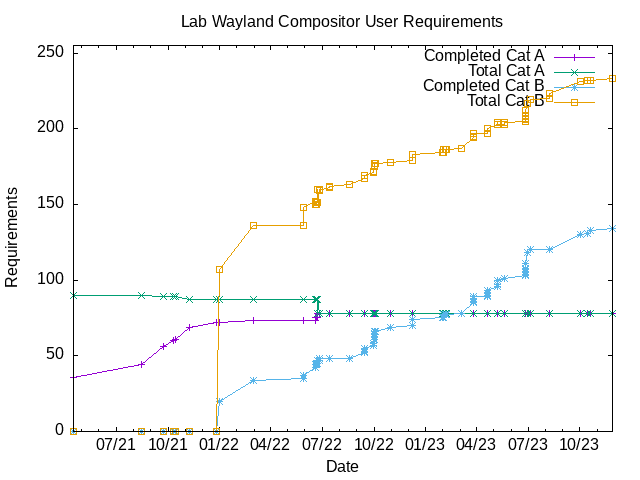
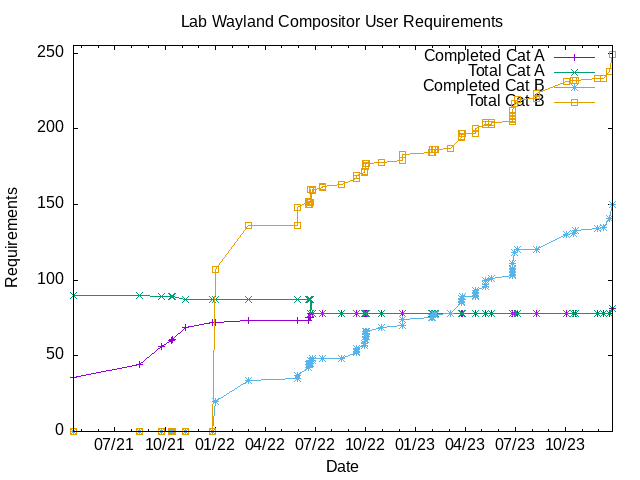
Update README.md following 0.7.0 release

diff --git a/all-cat-A-and-B-items.md b/all-cat-A-and-B-items.md
@@ -24,7 +24,7 @@ This file has been auto-generated based on README.md. Do not edit it manually
 |  A  | complete | 2.3.2     | placement                       | `center`                                                | No config - just do it
 |  A  | complete | 2.4.1     | theme                           | `name`                                                  |
 |  A  | complete | 2.4.6     | theme                           | `<font place="ActiveWindow">`                           |
-|  A  | complete | 2.8.3     | keyboard                        | `keybind`                                               |
+|  A  | complete | 2.8.3     | keyboard                        | `keybind`                                               | See section 3.1
 |  A  | complete | 2.9.2     | mouse                           | `doubleClickTime`                                       |
 |  A  | complete | 2.9.3     | mouse                           | `context`                                               |
 |  A  | complete | 3.1.1     | keyboard keybind                | `key`                                                   |
@@ -75,6 +75,9 @@ This file has been auto-generated based on README.md. Do not edit it manually
 |  A  | complete | 6.9.2     | menu textures                   | `menu.items.active.bg`                                  |
 |  A  | complete | 6.10.1    | osd textures                    | `osd.bg`                                                | we only set the color
 |  A  | complete | 6.11.1    | osd colors                      | `osd.label.text.color`                                  |
+|  A  | complete | 6.15.1.1  | theme button base               | `max.xbm`                                               |
+|  A  | complete | 6.15.1.3  | theme button base               | `iconify.xbm`                                           |
+|  A  | complete | 6.15.1.4  | theme button base               | `close.xbm`                                             |
 |  A  | complete | 7.1.1     | menu syntax general             | `id`                                                    |
 |  A  | complete | 7.2.1     | menu syntax item                | `label`                                                 |
 |  A  | complete | 7.2.3     | menu syntax item                | `action`                                                |
@@ -103,6 +106,8 @@ This file has been auto-generated based on README.md. Do not edit it manually
 |  B  | complete | 1.2.22    | wayland-protocol                | [ext-session-lock-v1]                                   | This is more secure [^1]
 |  B  | complete | 1.2.23    | wayland-protocol                | xdg-activation-v1                                       |
 |  B  | complete | 1.2.24    | wayland-protocol                | single-pixel-buffer-v1                                  |
+|  B  | complete | 1.2.25    | wayland-protocol                | cursor-shape-v1                                         |
+|  B  | complete | 1.2.26    | wayland-protocol                | fractional-scale-v1                                     |
 |  B  | complete | 1.3.1     | wlr-protocol                    | wlr-data-control-unstable-v1                            |
 |  B  | complete | 1.3.2     | wlr-protocol                    | wlr-export-dmabuf-unstable-v1                           |
 |  B  | complete | 1.3.4     | wlr-protocol                    | wlr-gamma-control-unstable-v1                           |
@@ -140,7 +145,9 @@ This file has been auto-generated based on README.md. Do not edit it manually
 |  B  | complete | 2.7.3.2   | window rule property            | `windowRule.skipTaskbar`                                | EXTRA
 |  B  | complete | 2.7.3.3   | window rule property            | `windowRule.skipWindowSwitcher`                         | EXTRA
 |  B  | complete | 2.7.3.4   | window rule property            | `windowRule.ignoreFocusRequest`                         | EXTRA
-|  B  | complete | 2.8.3.1   | keyboard                        | `keybind.layoutDependent`                               | EXTRA
+|  B  | complete | 2.7.3.5   | window rule property            | `windowRule.fixedPosition`                         | EXTRA
+|  B  | complete | 2.8.4     | keyboard                        | `numlock`                                               | EXTRA
+|  B  | complete | 2.8.5     | keyboard                        | `layoutScope`                                           | EXTRA
 |  B  | complete | 2.9.4     | mouse                           | `scrollFactor`                                          | EXTRA
 |  B  | complete | 2.10.1    | margins                         | `<margin>`                                              |
 |  B  |          | 2.11.1    | menu                            | `hideDelay`                                             |
@@ -158,6 +165,7 @@ This file has been auto-generated based on README.md. Do not edit it manually
 |  B  | complete | 2.13.6    | window switcher                 | `fields.field.width`                                    | EXTRA
 |  B  | complete | 3.6.1     | libinput                        |                                                         | EXTRA
 |  B  | complete | 3.1.6     | keyboard binding                | `default`                                               | EXTRA
+|  B  | complete | 3.1.7     | keyboard binding                | `lyoutDependent`                                        | EXTRA
 |  B  | complete | 3.2.4     | mouse binding                   | `default`                                               | EXTRA
 |  B  | complete | 3.3.1     | mouse context                   | `Frame`                                                 |
 |  B  | complete | 3.3.2     | mouse context                   | `Client`                                                |
@@ -197,9 +205,11 @@ This file has been auto-generated based on README.md. Do not edit it manually
 |  B  | complete | 4.18      | global action                   | `Kill`                                                  | EXTRA Send SIGTERM
 |  B  | complete | 4.19      | global action                   | `FocusOutput`                                           | EXTRA
 |  B  | complete | 4.20      | global action                   | `ToggleKeybinds`                                        | EXTRA
+|  B  | complete | 4.21      | global action                   | `VirtualOutputAdd`                                      | EXTRA
+|  B  | complete | 4.22      | global action                   | `VirtualOutputRemove`                                   | EXTRA
 |  B  | complete | 5.3       | window action                   | `Lower`                                                 |
 |  B  |          | 5.4       | window action                   | `RaiseLower`                                            |
-|  B  |          | 5.5       | window action                   | `UnFocus`                                               |
+|  B  | complete | 5.5       | window action                   | `Unfocus`                                               |
 |  B  |          | 5.6       | window action                   | `FocusToBottom`                                         |
 |  B  |          | 5.9       | window action                   | `ToggleShade`                                           |
 |  B  |          | 5.10      | window action                   | `Shade`                                                 |
@@ -215,14 +225,15 @@ This file has been auto-generated based on README.md. Do not edit it manually
 |  B  |          | 5.18      | window action                   | `Decorate`                                              |
 |  B  |          | 5.19      | window action                   | `Undecorate`                                            |
 |  B  | complete | 5.20      | window action                   | `SendToDesktop`                                         |
-|  B  | complete | 5.20.1    | window action                   | `SendToDesktop.to`                                      |
+|  B  | complete | 5.20.1    | window action                   | `SendToDesktop.to`                                      | EXTRA: support value 'current'
 |  B  | complete | 5.20.2    | window action                   | `SendToDesktop.follow`                                  |
 |  B  | complete | 5.20.3    | window action                   | `SendToDesktop.wrap`                                    |
 |  B  | complete | 5.23.1    | window action                   | `MoveTo`                                                | DEVIATION: `MoveResizeTo` in Openbox
-|  B  |          | 5.23.2    | window action                   | `ResizeTo`                                              |
+|  B  | complete | 5.23.2    | window action                   | `ResizeTo`                                              |
 |  B  | complete | 5.24      | window action                   | `MoveRelative`                                          |
 |  B  | complete | 5.25      | window action                   | `ResizeRelative`                                        |
-|  B  | complete | 5.26      | window action                   | `MoveToEdge`                                            | DEVIATION: Have `snapWindows` option
+|  B  | complete | 5.26      | window action                   | `MoveToEdge`                                            |
+|  B  | complete | 5.26.1    | window action                   | `MoveToEdge.snapWindows`                                | EXTRA
 |  B  | complete | 5.27      | window action                   | `GrowToEdge`                                            |
 |  B  |          | 5.28      | window action                   | `GrowToFill`                                            |
 |  B  | complete | 5.29      | window action                   | `ShrinkToEdge`                                          |
@@ -238,6 +249,7 @@ This file has been auto-generated based on README.md. Do not edit it manually
 |  B  | complete | 6.1.5     | geometry                        | `menu.separator.padding.height`                         |
 |  B  |          | 6.1.10    | geometry                        | `padding.width`                                         |
 |  B  | complete | 6.1.11    | geometry                        | `padding.height`                                        |
+|  B  | complete | 6.1.11.1  | geometry                        | `titlebar.height`                                       | EXTRA
 |  B  | complete | 6.1.12    | geometry                        | `menu.overlap.x`                                        |
 |  B  | complete | 6.1.13    | geometry                        | `menu.overlap.y`                                        |
 |  B  |          | 6.1.14    | geometry                        | `menu.overlap`                                          |
@@ -245,11 +257,13 @@ This file has been auto-generated based on README.md. Do not edit it manually
 |  B  | complete | 6.1.16    | geometry                        | `menu.width.max`                                        | EXTRA
 |  B  | complete | 6.1.17    | geometry                        | `menu.items.padding.x`                                  | EXTRA
 |  B  | complete | 6.1.18    | geometry                        | `menu.items.padding.y`                                  | EXTRA
-|  B  | complete | 6.1.19    | geometry                        | `osd.window-switcher.width`                             | EXTRA
-|  B  | complete | 6.1.20    | geometry                        | `osd.window-switcher.item.padding.x`                    | EXTRA
-|  B  | complete | 6.1.21    | geometry                        | `osd.window-switcher.item.padding.y`                    | EXTRA
-|  B  | complete | 6.1.21    | geometry                        | `osd.window-switcher.padding`                           | EXTRA
-|  B  | complete | 6.1.21    | geometry                        | `osd.window-switcher.item.active.border.width`          | EXTRA
+|  B  | complete | 6.1.19.1  | geometry                        | `osd.window-switcher.width`                             | EXTRA
+|  B  | complete | 6.1.19.2  | geometry                        | `osd.window-switcher.item.padding.x`                    | EXTRA
+|  B  | complete | 6.1.19.3  | geometry                        | `osd.window-switcher.item.padding.y`                    | EXTRA
+|  B  | complete | 6.1.19.4  | geometry                        | `osd.window-switcher.padding`                           | EXTRA
+|  B  | complete | 6.1.19.5  | geometry                        | `osd.window-switcher.item.active.border.width`          | EXTRA
+|  B  | complete | 6.1.20.1  | geometry                        | `osd.workspace-switcher.boxes.width`                    | EXTRA
+|  B  | complete | 6.1.20.2  | geometry                        | `osd.workspace-switcher.boxes.height`                   | EXTRA
 |  B  |          | 6.2.2     | border colors                   | `window.active.title.separator.color`                   |
 |  B  |          | 6.2.4     | border colors                   | `window.inactive.title.separator.color`                 |
 |  B  |          | 6.2.6     | border colors                   | `window.active.client.color`                            |
@@ -300,15 +314,20 @@ This file has been auto-generated based on README.md. Do not edit it manually
 |  B  |          | 6.11.3    | osd colors                      | `osd.unhilight.bg.color`                                | for desktop osd only
 |  B  | complete | 6.12.1    | text justification              | `window.label.text.justify`                             |
 |  B  |          | 6.12.2    | text justification              | `menu.title.text.justify`                               |
-|  B  | complete | 8.3.1     | extra                           | Read menu.xbm if it exists                              | EXTRA
+|  B  | complete | 6.15.1.2  | theme button base               | `max_toggled.xbm`                                       |
+|  B  |          | 6.15.1.9  | theme button base               | `bullet.xbm`                                            |
+|  B  | complete | 6.15.1.1  | theme button base               | `menu.xbm`                                              | EXTRA
+|  B  | complete | 6.15.2.1  | theme button variant            | `_hover`                                                |
+|  B  |          | 6.15.2.2  | theme button variant            | `_pressed`                                              |
+|  B  |          | 6.15.2.3  | theme button variant            | `_disabled`                                             |
+|  B+ | complete | 6.15.3    | theme button png                | Support png buttons                                     | EXTRA
+|  B+ | complete | 6.15.4    | theme button svg                | Support svg buttons                                     | EXTRA
 |  B  | complete | 7.0.1     | menu general                    | Parse menu.xml in accordance with Openbox 3.6 spec      |
 |  B  | complete | 7.0.2     | menu general                    | Handle pointer input                                    |
 |  B+ | complete | 7.0.3     | menu general                    | Handle keyboard input                                   |
 |  B  |          | 7.1.2     | menu syntax general             | `label`                                                 |
 |  B+ |          | 7.1.4     | menu syntax general             | `execute`                                               | aka pipe-menus
 |  B  |          | 7.3.2     | menu syntax separator           | `<separator label="" />`                                | For separator with text
-|  B+ | complete | 8.1.2     | extra                           | Support png buttons                                     |
-|  B+ | complete | 8.1.3     | extra                           | Support svg buttons                                     |
 |  B  | complete | 8.2.1     | extra                           | `<snapping>`                                            |
 |  B  | complete | 8.2.2     | extra                           | `<snapping><range>`                                     |
 |  B  | complete | 8.2.3     | extra                           | `<snapping><topMaximize>`                               |

diff --git a/README.md b/README.md
@@ -49,6 +49,8 @@
     - [6.11 On-Screen-Display Colors](#611-theme---on-screen-display-colors)
     - [6.12 Text Justification](#612-theme---text-justification)
     - [6.13 Text Shadows](#613-theme---text-shadows)
+    - [6.14 Dialogs](#614-theme---dialogs)
+    - [6.15 Button Images](#615-theme---buttom-images)
   - [7 Menus](#7-menus)
   - [8 Extra](#8-extra)
 - [Appendix A - Terminology](#appendix-a---terminology)
@@ -174,6 +176,8 @@ Requirements section below.
 |  B  | complete | 1.2.22    | wayland-protocol                | [ext-session-lock-v1]                                   | This is more secure [^1]
 |  B  | complete | 1.2.23    | wayland-protocol                | xdg-activation-v1                                       |
 |  B  | complete | 1.2.24    | wayland-protocol                | single-pixel-buffer-v1                                  |
+|  B  | complete | 1.2.25    | wayland-protocol                | cursor-shape-v1                                         |
+|  B  | complete | 1.2.26    | wayland-protocol                | fractional-scale-v1                                     |
 
 [presentation-time]: https://gitlab.freedesktop.org/wayland/wayland-protocols/-/tree/main/stable/presentation-time
 [viewporter]: https://gitlab.freedesktop.org/wayland/wayland-protocols/-/tree/main/stable/viewporter
@@ -383,6 +387,9 @@ The `<core>` section is additional to openbox 3.6 spec.
 
 ## 2.14 Configuration - Window Switcher
 
+The window switcher can be cycled in reverse using shift-tab or up/left
+arrow whilst holding alt.
+
 | Cat | Status   | Reference | Category                        | Description                                             | Comment
 | --- | -------- | --------- | ------------------------------- | ------------------------------------------------------- | -------
 |  B  | complete | 2.13.1    | window switcher                 | `show`                                                  | EXTRA
@@ -504,6 +511,8 @@ The `<core>` section is additional to openbox 3.6 spec.
 |  B  | complete | 4.18      | global action                   | `Kill`                                                  | EXTRA Send SIGTERM
 |  B  | complete | 4.19      | global action                   | `FocusOutput`                                           | EXTRA
 |  B  | complete | 4.20      | global action                   | `ToggleKeybinds`                                        | EXTRA
+|  B  | complete | 4.21      | global action                   | `VirtualOutputAdd`                                      | EXTRA
+|  B  | complete | 4.22      | global action                   | `VirtualOutputRemove`                                   | EXTRA
 
 ## 5 Window Actions
 
@@ -538,7 +547,7 @@ The `<core>` section is additional to openbox 3.6 spec.
 |  A  | complete | 5.21      | window action                   | `Move`                                                  |
 |  A  | complete | 5.22      | window action                   | `Resize`                                                |
 |  B  | complete | 5.23.1    | window action                   | `MoveTo`                                                | DEVIATION: `MoveResizeTo` in Openbox
-|  B  |          | 5.23.2    | window action                   | `ResizeTo`                                              |
+|  B  | complete | 5.23.2    | window action                   | `ResizeTo`                                              |
 |  B  | complete | 5.24      | window action                   | `MoveRelative`                                          |
 |  B  | complete | 5.25      | window action                   | `ResizeRelative`                                        |
 |  B  | complete | 5.26      | window action                   | `MoveToEdge`                                            |
@@ -584,6 +593,8 @@ The `<core>` section is additional to openbox 3.6 spec.
 |  B  | complete | 6.1.19.3  | geometry                        | `osd.window-switcher.item.padding.y`                    | EXTRA
 |  B  | complete | 6.1.19.4  | geometry                        | `osd.window-switcher.padding`                           | EXTRA
 |  B  | complete | 6.1.19.5  | geometry                        | `osd.window-switcher.item.active.border.width`          | EXTRA
+|  B  | complete | 6.1.20.1  | geometry                        | `osd.workspace-switcher.boxes.width`                    | EXTRA
+|  B  | complete | 6.1.20.2  | geometry                        | `osd.workspace-switcher.boxes.height`                   | EXTRA
 
 ## 6.2 Theme - Border Colors
 
@@ -719,11 +730,38 @@ The `<core>` section is additional to openbox 3.6 spec.
 |  C  |          | 6.13.4    | text shadows                    | `menu.title.text.font`                                  |
 |  C  |          | 6.13.5    | text shadows                    | `osd.label.text.font`                                   |
 
-## 6.14 Theme - Button Images
+## 6.14 Theme - Dialogs
+
+Not yet supported.
+
+## 6.15 Theme - Button Images
+
+Parse svg, png and xbm icons.
+
+The following are referred to as 'base buttons': `max`, `max_toggled`,
+`iconify`, `close`, `desk`, `desk_toggled`, `shade`, `shade_toggled`,
+`bullet` and `menu`.
+
+In addition to the base buttons, the following variants exist:
+`_hover`, `_pressed` and `_disabled`
 
 | Cat | Status   | Reference | Category                        | Description                                             | Comment
 | --- | -------- | --------- | ------------------------------- | ------------------------------------------------------- | -------
-|  B  | complete | 8.3.1     | extra                           | Read menu.xbm if it exists                              | EXTRA
+|  A  | complete | 6.15.1.1  | theme button base               | `max.xbm`                                               |
+|  B  | complete | 6.15.1.2  | theme button base               | `max_toggled.xbm`                                       |
+|  A  | complete | 6.15.1.3  | theme button base               | `iconify.xbm`                                           |
+|  A  | complete | 6.15.1.4  | theme button base               | `close.xbm`                                             |
+|  C  |          | 6.15.1.5  | theme button base               | `desk.xbm`                                              |
+|  C  |          | 6.15.1.6  | theme button base               | `desk_toggled.xbm`                                      |
+|  C  |          | 6.15.1.7  | theme button base               | `shade.xbm`                                             |
+|  C  |          | 6.15.1.8  | theme button base               | `shade_toggled.xbm`                                     |
+|  B  |          | 6.15.1.9  | theme button base               | `bullet.xbm`                                            |
+|  B  | complete | 6.15.1.1  | theme button base               | `menu.xbm`                                              | EXTRA
+|  B  | complete | 6.15.2.1  | theme button variant            | `_hover`                                                |
+|  B  |          | 6.15.2.2  | theme button variant            | `_pressed`                                              |
+|  B  |          | 6.15.2.3  | theme button variant            | `_disabled`                                             |
+|  B+ | complete | 6.15.3    | theme button png                | Support png buttons                                     | EXTRA
+|  B+ | complete | 6.15.4    | theme button svg                | Support svg buttons                                     | EXTRA
 
 ## 7 Menus
 
@@ -751,12 +789,9 @@ Server-side-decoration: Disable border on maximize
 | Cat | Status   | Reference | Category                        | Description                                             | Comment
 | --- | -------- | --------- | ------------------------------- | ------------------------------------------------------- | -------
 |  A  | complete | 8.1.1     | extra                           | Support rounded top window corners                      | rc.xml `<theme><cornerRadius>`
-|  B+ | complete | 8.1.2     | extra                           | Support png buttons                                     |
-|  B+ | complete | 8.1.3     | extra                           | Support svg buttons                                     |
 |  B  | complete | 8.2.1     | extra                           | `<snapping>`                                            |
 |  B  | complete | 8.2.2     | extra                           | `<snapping><range>`                                     |
 |  B  | complete | 8.2.3     | extra                           | `<snapping><topMaximize>`                               |
-
 
 ## 9 Regions
 

diff --git a/extra.md b/extra.md
@@ -10,7 +10,9 @@ This file has been auto-generated based on README.md. Do not edit it manually
 |  B  | complete | 2.7.3.2   | window rule property            | `windowRule.skipTaskbar`                                | EXTRA
 |  B  | complete | 2.7.3.3   | window rule property            | `windowRule.skipWindowSwitcher`                         | EXTRA
 |  B  | complete | 2.7.3.4   | window rule property            | `windowRule.ignoreFocusRequest`                         | EXTRA
-|  B  | complete | 2.8.3.1   | keyboard                        | `keybind.layoutDependent`                               | EXTRA
+|  B  | complete | 2.7.3.5   | window rule property            | `windowRule.fixedPosition`                         | EXTRA
+|  B  | complete | 2.8.4     | keyboard                        | `numlock`                                               | EXTRA
+|  B  | complete | 2.8.5     | keyboard                        | `layoutScope`                                           | EXTRA
 |  B  | complete | 2.9.4     | mouse                           | `scrollFactor`                                          | EXTRA
 |  B  | complete | 2.13.1    | core                            | `decoration`                                            | EXTRA
 |  B  | complete | 2.13.1    | core                            | `gap`                                                   | EXTRA
@@ -24,6 +26,7 @@ This file has been auto-generated based on README.md. Do not edit it manually
 |  B  | complete | 2.13.6    | window switcher                 | `fields.field.width`                                    | EXTRA
 |  B  | complete | 3.6.1     | libinput                        |                                                         | EXTRA
 |  B  | complete | 3.1.6     | keyboard binding                | `default`                                               | EXTRA
+|  B  | complete | 3.1.7     | keyboard binding                | `lyoutDependent`                                        | EXTRA
 |  B  | complete | 3.2.4     | mouse binding                   | `default`                                               | EXTRA
 |  B  | complete | 3.3.21    | mouse context                   | `Title`                                                 | EXTRA
 |  B  | complete | 4.16      | global action                   | `Debug`                                                 | EXTRA
@@ -31,16 +34,25 @@ This file has been auto-generated based on README.md. Do not edit it manually
 |  B  | complete | 4.18      | global action                   | `Kill`                                                  | EXTRA Send SIGTERM
 |  B  | complete | 4.19      | global action                   | `FocusOutput`                                           | EXTRA
 |  B  | complete | 4.20      | global action                   | `ToggleKeybinds`                                        | EXTRA
+|  B  | complete | 4.21      | global action                   | `VirtualOutputAdd`                                      | EXTRA
+|  B  | complete | 4.22      | global action                   | `VirtualOutputRemove`                                   | EXTRA
+|  B  | complete | 5.20.1    | window action                   | `SendToDesktop.to`                                      | EXTRA: support value 'current'
+|  B  | complete | 5.26.1    | window action                   | `MoveToEdge.snapWindows`                                | EXTRA
 |  B  | complete | 5.36      | window action                   | `SnapToEdge`                                            | EXTRA
 |  B  | complete | 5.37      | window action                   | `SnapToRegion`                                          | EXTRA
 |  B  | complete | 5.38      | window action                   | `MoveToCursor`                                          | EXTRA
+|  B  | complete | 6.1.11.1  | geometry                        | `titlebar.height`                                       | EXTRA
 |  B  | complete | 6.1.15    | geometry                        | `menu.width.min`                                        | EXTRA
 |  B  | complete | 6.1.16    | geometry                        | `menu.width.max`                                        | EXTRA
 |  B  | complete | 6.1.17    | geometry                        | `menu.items.padding.x`                                  | EXTRA
 |  B  | complete | 6.1.18    | geometry                        | `menu.items.padding.y`                                  | EXTRA
-|  B  | complete | 6.1.19    | geometry                        | `osd.window-switcher.width`                             | EXTRA
-|  B  | complete | 6.1.20    | geometry                        | `osd.window-switcher.item.padding.x`                    | EXTRA
-|  B  | complete | 6.1.21    | geometry                        | `osd.window-switcher.item.padding.y`                    | EXTRA
-|  B  | complete | 6.1.21    | geometry                        | `osd.window-switcher.padding`                           | EXTRA
-|  B  | complete | 6.1.21    | geometry                        | `osd.window-switcher.item.active.border.width`          | EXTRA
-|  B  | complete | 8.3.1     | extra                           | Read menu.xbm if it exists                              | EXTRA
+|  B  | complete | 6.1.19.1  | geometry                        | `osd.window-switcher.width`                             | EXTRA
+|  B  | complete | 6.1.19.2  | geometry                        | `osd.window-switcher.item.padding.x`                    | EXTRA
+|  B  | complete | 6.1.19.3  | geometry                        | `osd.window-switcher.item.padding.y`                    | EXTRA
+|  B  | complete | 6.1.19.4  | geometry                        | `osd.window-switcher.padding`                           | EXTRA
+|  B  | complete | 6.1.19.5  | geometry                        | `osd.window-switcher.item.active.border.width`          | EXTRA
+|  B  | complete | 6.1.20.1  | geometry                        | `osd.workspace-switcher.boxes.width`                    | EXTRA
+|  B  | complete | 6.1.20.2  | geometry                        | `osd.workspace-switcher.boxes.height`                   | EXTRA
+|  B  | complete | 6.15.1.1  | theme button base               | `menu.xbm`                                              | EXTRA
+|  B+ | complete | 6.15.3    | theme button png                | Support png buttons                                     | EXTRA
+|  B+ | complete | 6.15.4    | theme button svg                | Support svg buttons                                     | EXTRA

diff --git a/incomplete-cat-B-items.md b/incomplete-cat-B-items.md
@@ -33,7 +33,6 @@ This file has been auto-generated based on README.md. Do not edit it manually
 |  B  |          | 4.13      | global action                   | `Restart`                                               |
 |  B  |          | 4.15      | global action                   | `SessionLogout`                                         |
 |  B  |          | 5.4       | window action                   | `RaiseLower`                                            |
-|  B  |          | 5.5       | window action                   | `UnFocus`                                               |
 |  B  |          | 5.6       | window action                   | `FocusToBottom`                                         |
 |  B  |          | 5.9       | window action                   | `ToggleShade`                                           |
 |  B  |          | 5.10      | window action                   | `Shade`                                                 |
@@ -44,7 +43,6 @@ This file has been auto-generated based on README.md. Do not edit it manually
 |  B  |          | 5.15.1    | window action                   | `Unmaximize.direction`                                  |
 |  B  |          | 5.18      | window action                   | `Decorate`                                              |
 |  B  |          | 5.19      | window action                   | `Undecorate`                                            |
-|  B  |          | 5.23.2    | window action                   | `ResizeTo`                                              |
 |  B  |          | 5.28      | window action                   | `GrowToFill`                                            |
 |  B  |          | 6.1.2     | geometry                        | `menu.border.width`                                     |
 |  B  |          | 6.1.10    | geometry                        | `padding.width`                                         |
@@ -98,5 +96,8 @@ This file has been auto-generated based on README.md. Do not edit it manually
 |  B  |          | 6.11.2    | osd colors                      | `osd.hilight.bg.color`                                  | for desktop osd only
 |  B  |          | 6.11.3    | osd colors                      | `osd.unhilight.bg.color`                                | for desktop osd only
 |  B  |          | 6.12.2    | text justification              | `menu.title.text.justify`                               |
+|  B  |          | 6.15.1.9  | theme button base               | `bullet.xbm`                                            |
+|  B  |          | 6.15.2.2  | theme button variant            | `_pressed`                                              |
+|  B  |          | 6.15.2.3  | theme button variant            | `_disabled`                                             |
 |  B  |          | 7.1.2     | menu syntax general             | `label`                                                 |
 |  B  |          | 7.3.2     | menu syntax separator           | `<separator label="" />`                                | For separator with text

diff --git a/deviations.md b/deviations.md
@@ -7,4 +7,3 @@ This file has been auto-generated based on README.md. Do not edit it manually
 |  B  | complete | 3.3.4     | mouse context                   | `Root`                                                  | DEVIATION [^2]
 |  B  | complete | 3.5.6     | mouse event                     | `Scroll`                                                | DEVIATION: Scroll is used instead of Click for mouse-buttons Up/Down
 |  B  | complete | 5.23.1    | window action                   | `MoveTo`                                                | DEVIATION: `MoveResizeTo` in Openbox
-|  B  | complete | 5.26      | window action                   | `MoveToEdge`                                            | DEVIATION: Have `snapWindows` option

diff --git a/stats.md b/stats.md
@@ -2,7 +2,7 @@ This file has been auto-generated based on README.md. Do not edit it manually
 
 # Requirements Breakdown
 
-- Cat A:  78 / 78 complete
-- Cat B:  135 / 233 complete
-- Cat C:  0 / 44 complete
-- TOTAL:  213 / 355 complete
+- Cat A:  81 / 81 complete
+- Cat B:  150 / 249 complete
+- Cat C:  0 / 48 complete
+- TOTAL:  231 / 378 complete
